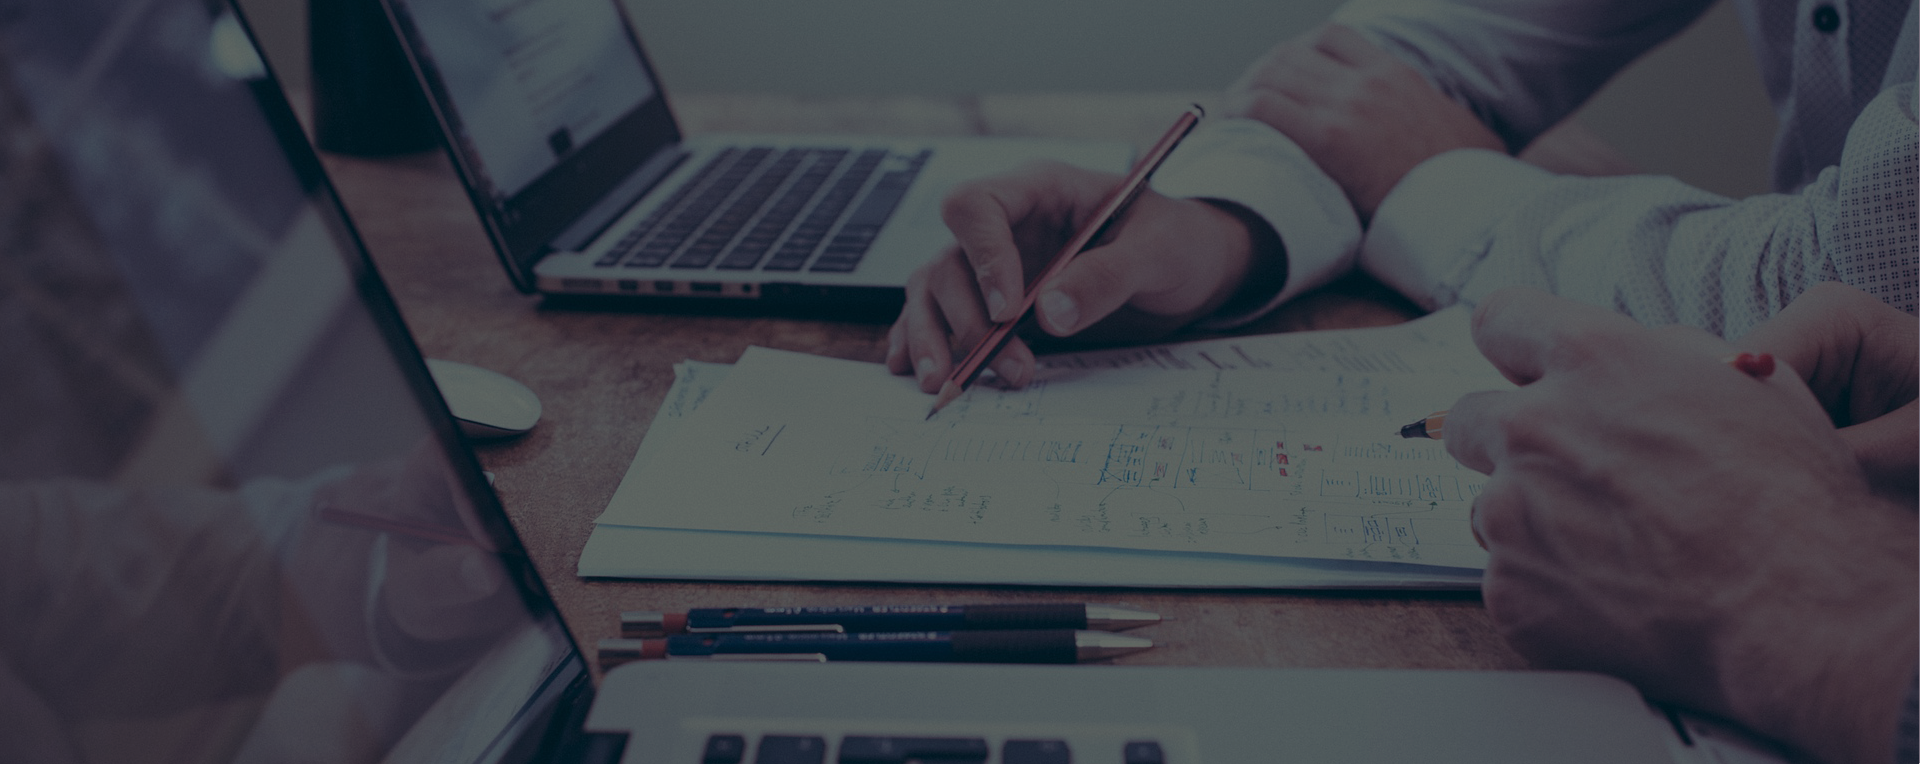
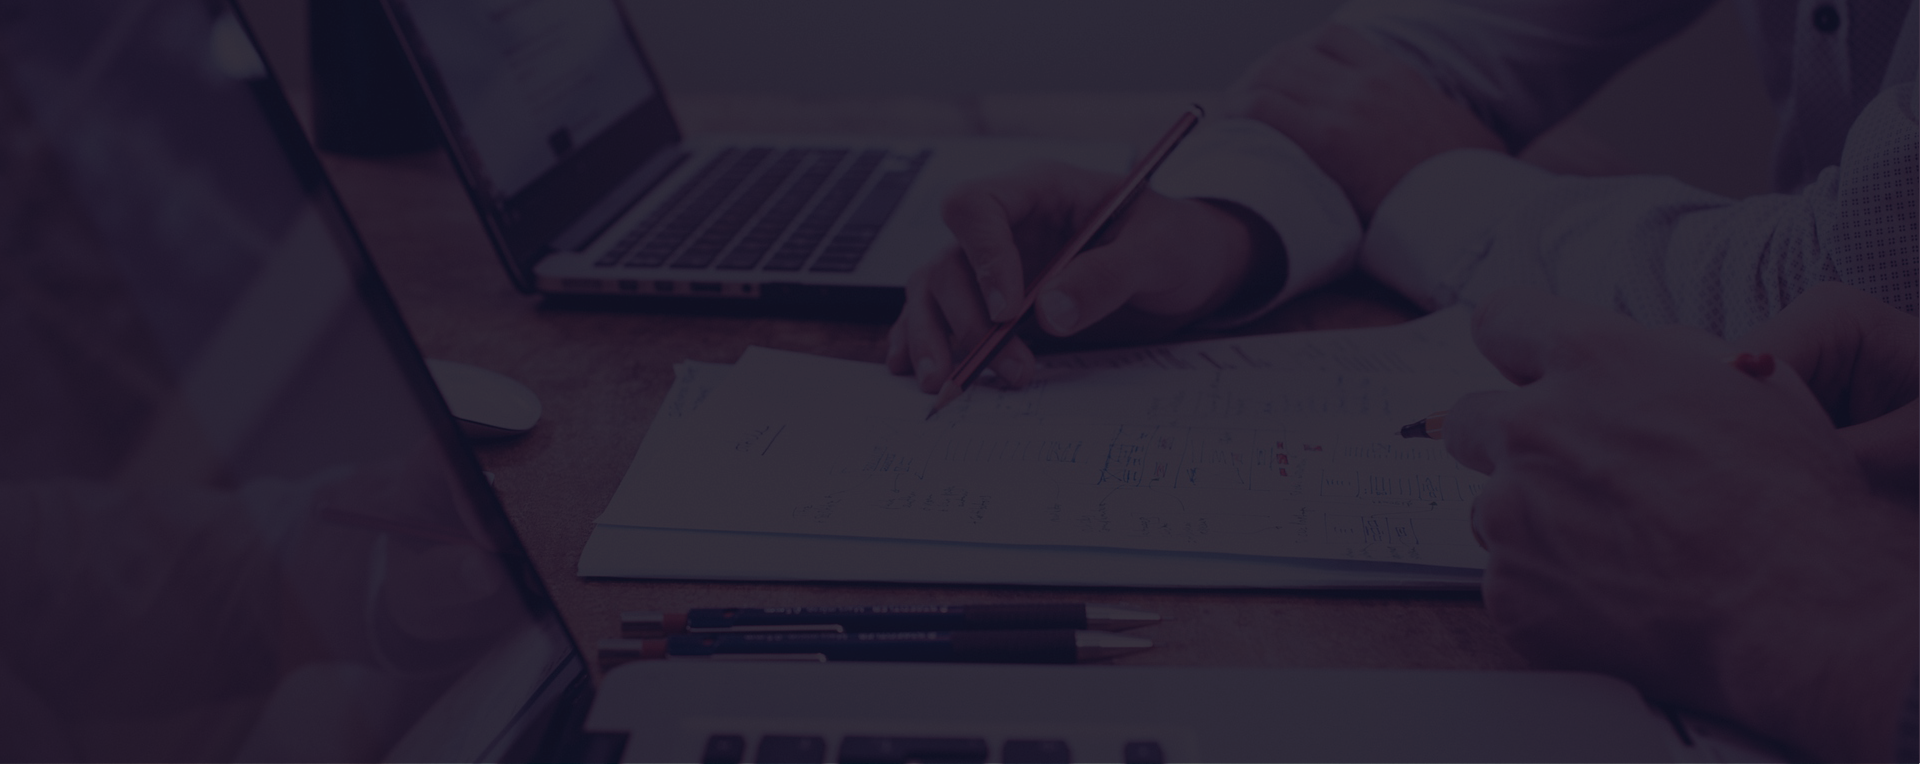
first section added

diff --git a/index.html b/index.html
@@ -4,44 +4,66 @@
 	<meta charset="UTF-8">
 	<meta name="viewport" content="width=device-width, initial-scale=1.0">
 	<title>Agency</title>
-	<link rel="stylesheet" href="https://cdnjs.cloudflare.com/ajax/libs/foundation/6.4.3/css/foundation.min.css" integrity="sha256-itWEYdFWzZPBG78bJOOiQIn06QCgN/F0wMDcC4nOhxY=" crossorigin="anonymous" />
+	<link rel="stylesheet" href="https://cdnjs.cloudflare.com/ajax/libs/foundation/6.4.3/css/foundation-float.css" integrity="sha256-+8r1EkvIoWpxT8CKbSw/rCQWttnazW9mLPg6xT+/2EM=" crossorigin="anonymous" />
+	<link href="https://fonts.googleapis.com/css?family=Montserrat:400,400i,500,500i,700i,800,800i,900" rel="stylesheet">
 	<link rel="stylesheet" href="css/style.css">
 </head>
 <body>
 	<section class="home-section">
 		<header>
-			<div class="container">
 				<nav>
-					<div class="row">
-						<div class="home-section__logo">
-							
+					<div class="row middle">
+						<div class="home-section__logo columns medium-6 large-4 small-8">
+							<a href="">
+								<img src="img/logo.png" alt="logo">
+							</a>
 						</div>
-						<div class="home-section__menu cell medium-6 large-4">
+						<div class="home-section__menu columns medium-6 large-6 small-8">
 							<ul>
-								<li class="navLink listStyleNone">
+								<li class="listStyleNone">
 									<a class="text-decoration" href="">home</a>
 								</li>
-								<li class="navLink listStyleNone">
+								<li class="listStyleNone">
 									<a class="text-decoration" href="">about us</a>
 								</li>
-								<li class="navLink listStyleNone">
+								<li class="listStyleNone">
 									<a class="text-decoration" href="">services</a>
 								</li>
-								<li class="navLink listStyleNone">
+								<li class="listStyleNone">
 									<a class="text-decoration" href="">portfolio</a>
 								</li>
-								<li class="navLink listStyleNone">
+								<li class="listStyleNone">
 									<a class="text-decoration" href="">team</a>
 								</li>
-								<li class="navLink listStyleNone">
+								<li class="listStyleNone">
 									<a class="text-decoration" href="">price</a>
 								</li>
 							</ul>
 						</div>
 					</div>
 				</nav>
-			</div>
 		</header>
+		<div class="row">
+			<div class="text-center">
+				<h1>creative agency <span>design</span></h1>
+			</div>
+			<div class="home-section__description text-center center-block">
+				Lorem Ipsum has been the industry's standard dummy text ever since the 1500s, when an unknown printer took a galley of type and scrambled it to make a type specimen book.
+			</div>
+			<div class="home-section_buttons text-center">
+				<div class="button">
+	                <a class="decorationNone buttonText" href="https://www.google.com.ua">get started</a>
+	   			</div>
+				<div class="button">
+	                <a class="decorationNone buttonText" href="https://www.google.com.ua">take a tour</a>
+	   			</div>
+			</div>
+			<div class="text-center">
+				<div class="pagination"></div>
+				<div class="pagination paginationActive"></div>
+				<div class="pagination"></div>
+			</div>
+		</div>
 	</section>
 </body>
 </html>

diff --git a/css/style.css b/css/style.css
@@ -1,5 +1,11 @@
+.center-block {
+  margin: 0 auto; }
+
 .listStyleNone {
   list-style-type: none; }
+
+.middle {
+  position: relative; }
 
 .text-decoration {
   text-decoration: none; }
@@ -7,10 +13,80 @@
 .decorationNone {
   text-decoration: none; }
 
+.button {
+  border: 1px solid #fff;
+  border-radius: 8px;
+  width: 262px;
+  padding-top: 23px;
+  padding-bottom: 23px;
+  display: inline-block;
+  background-color: #342f3c;
+  text-align: center; }
+
+.pagination {
+  border-radius: 4px;
+  width: 68px;
+  height: 7px;
+  display: inline-block;
+  background-color: #807d87;
+  margin-right: 8px; }
+
+.paginationActive {
+  background-color: #753d9d; }
+
+.button:hover {
+  background-color: #753d9d;
+  text-decoration: none;
+  color: #753d9d;
+  border-color: #753d9d; }
+
+.buttonText:hover {
+  color: #fff; }
+
+.buttonText {
+  text-transform: uppercase;
+  font-size: 18px;
+  font-family: "Montserrat", sans-serif;
+  color: #fff; }
+
 .home-section {
-  background-image: url(../img/home-section.png); }
+  background-image: url(../img/home-section.png);
+  background-repeat: no-repeat;
+  padding-top: 45px;
+  padding-bottom: 30px; }
+  .home-section .home-section__menu {
+    position: absolute;
+    top: 25%;
+    right: 0%; }
   .home-section .home-section__menu ul li {
-    float: left;
-    margin-left: 5px; }
+    float: left; }
+  .home-section .home-section__menu ul li a {
+    text-transform: uppercase;
+    font-size: 15px;
+    font-family: "Montserrat", sans-serif;
+    color: #fff;
+    margin-right: 18px; }
+  .home-section .home-section__menu ul li a:hover {
+    color: #753d9d; }
+  .home-section h1 {
+    font-size: 70px;
+    text-transform: uppercase;
+    font-family: "Montserrat", sans-serif;
+    color: #fff;
+    font-weight: bold;
+    margin-top: 207px;
+    line-height: 0.371;
+    margin-bottom: 50px; }
+  .home-section h1 span {
+    color: #753d9d; }
+  .home-section .home-section__description {
+    font-size: 18px;
+    font-family: "Montserrat", sans-serif;
+    color: #fff;
+    margin-bottom: 64px;
+    width: 80%; }
+  .home-section .home-section_buttons .button {
+    margin-right: 25px;
+    margin-bottom: 150px; }
 
 /*# sourceMappingURL=style.css.map */

diff --git a/css/style.scss b/css/style.scss
@@ -1,5 +1,19 @@
+$white: #fff;
+$grey: #342f3c;
+$lightGray: #807d87;
+$purple: rgb(117, 61, 157);
+$font-family: 'Montserrat', sans-serif;
+
+.center-block{
+	margin: 0 auto;
+}
+
 .listStyleNone{
 	list-style-type: none;
+}
+
+.middle{
+	position: relative;
 }
 
 .text-decoration{
@@ -10,10 +24,97 @@
 	 text-decoration: none;
 }
 
+.button {
+    border: 1px solid #fff;
+    border-radius: 8px;
+    width: 262px;
+    padding-top: 23px;
+    padding-bottom: 23px;
+    display: inline-block;
+    background-color: #342f3c;
+    text-align: center;
+}
+
+.pagination{
+    border-radius: 4px;
+    width: 68px;
+    height: 7px;
+    display: inline-block;
+    background-color: #807d87;
+    margin-right: 8px;
+}
+
+.paginationActive {
+	background-color: $purple;
+}
+
+.button:hover {
+    background-color: $purple;
+    text-decoration: none;
+    color: $purple;
+    border-color: $purple;
+}
+
+.buttonText:hover {
+    color: $white;
+}
+
+.buttonText {
+    text-transform: uppercase;
+	font-size: 18px;
+	font-family: $font-family;
+	color: $white;
+}
+
 .home-section{
 	background-image: url(../img/home-section.png);
+	background-repeat: no-repeat;
+	padding-top: 45px;
+	padding-bottom: 30px;
+	.home-section__menu{
+		position: absolute;
+	    top: 25%;
+	    right: 0%;
+	}
 	.home-section__menu ul li{
 		float: left;
-		margin-left: 5px;
+	}
+	.home-section__menu ul li a{
+		text-transform: uppercase;
+		font-size: 15px;
+		font-family: $font-family;
+		color: $white;
+		margin-right: 18px;
+	}
+	
+	.home-section__menu ul li a:hover {
+		color: $purple;
+	}
+
+	h1{
+	  	font-size: 70px;
+	    text-transform: uppercase;
+	    font-family: $font-family;
+	    color: $white;
+	    font-weight: bold;
+	    margin-top: 207px;
+	    line-height: 0.371;
+	    margin-bottom: 50px;
+	}
+	h1 span{
+		color: $purple;
+	}
+
+	.home-section__description {
+	  font-size: 18px;
+	  font-family: $font-family;
+	  color: $white;
+	  margin-bottom: 64px;
+	  width: 80%;
+	}
+
+	.home-section_buttons .button{
+		margin-right: 25px;
+		margin-bottom: 150px;
 	}
 }
